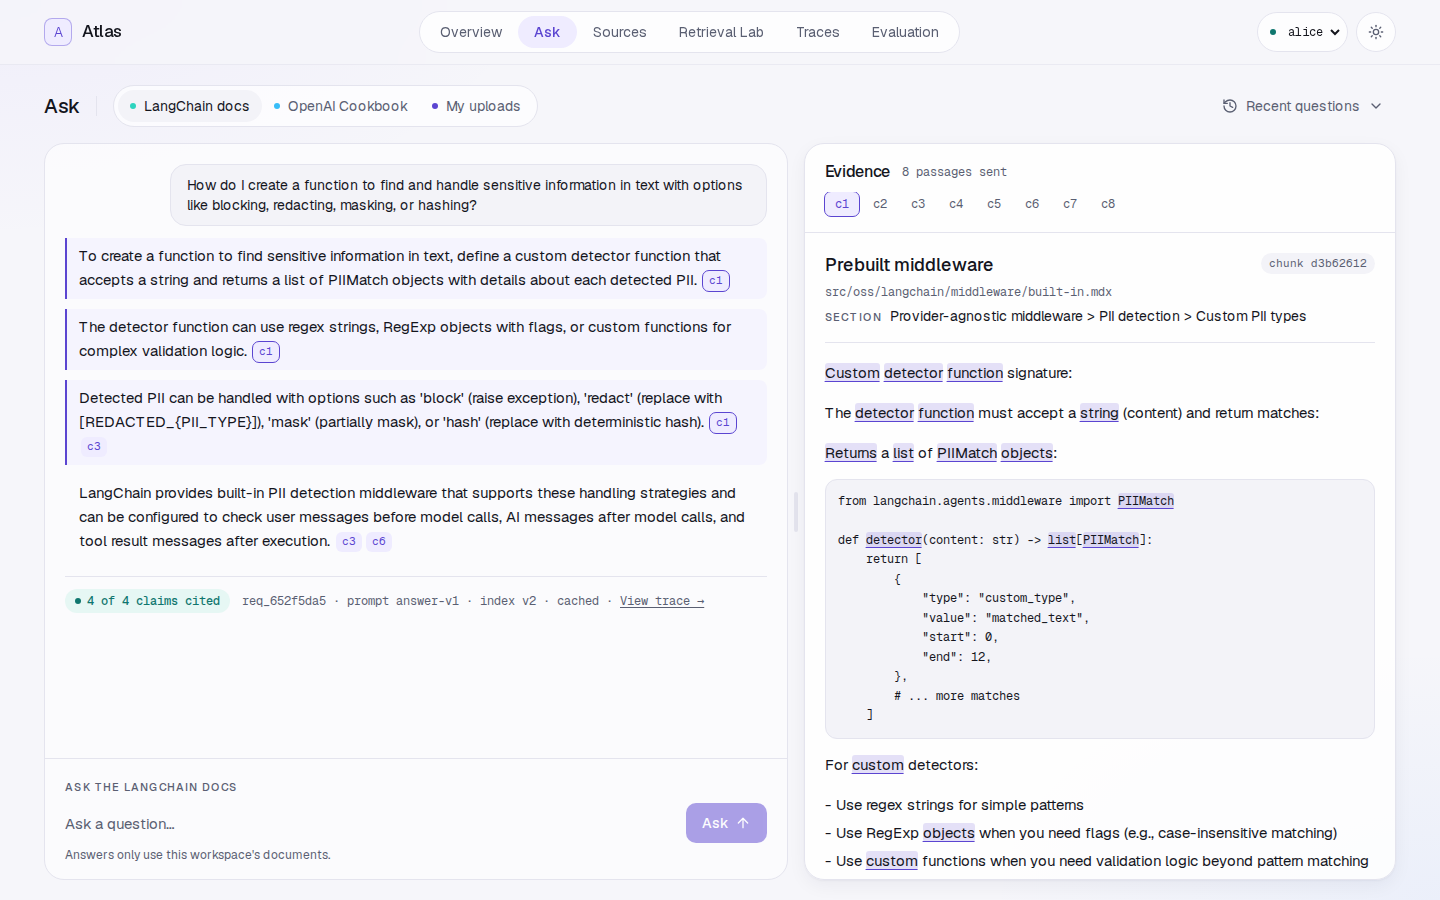
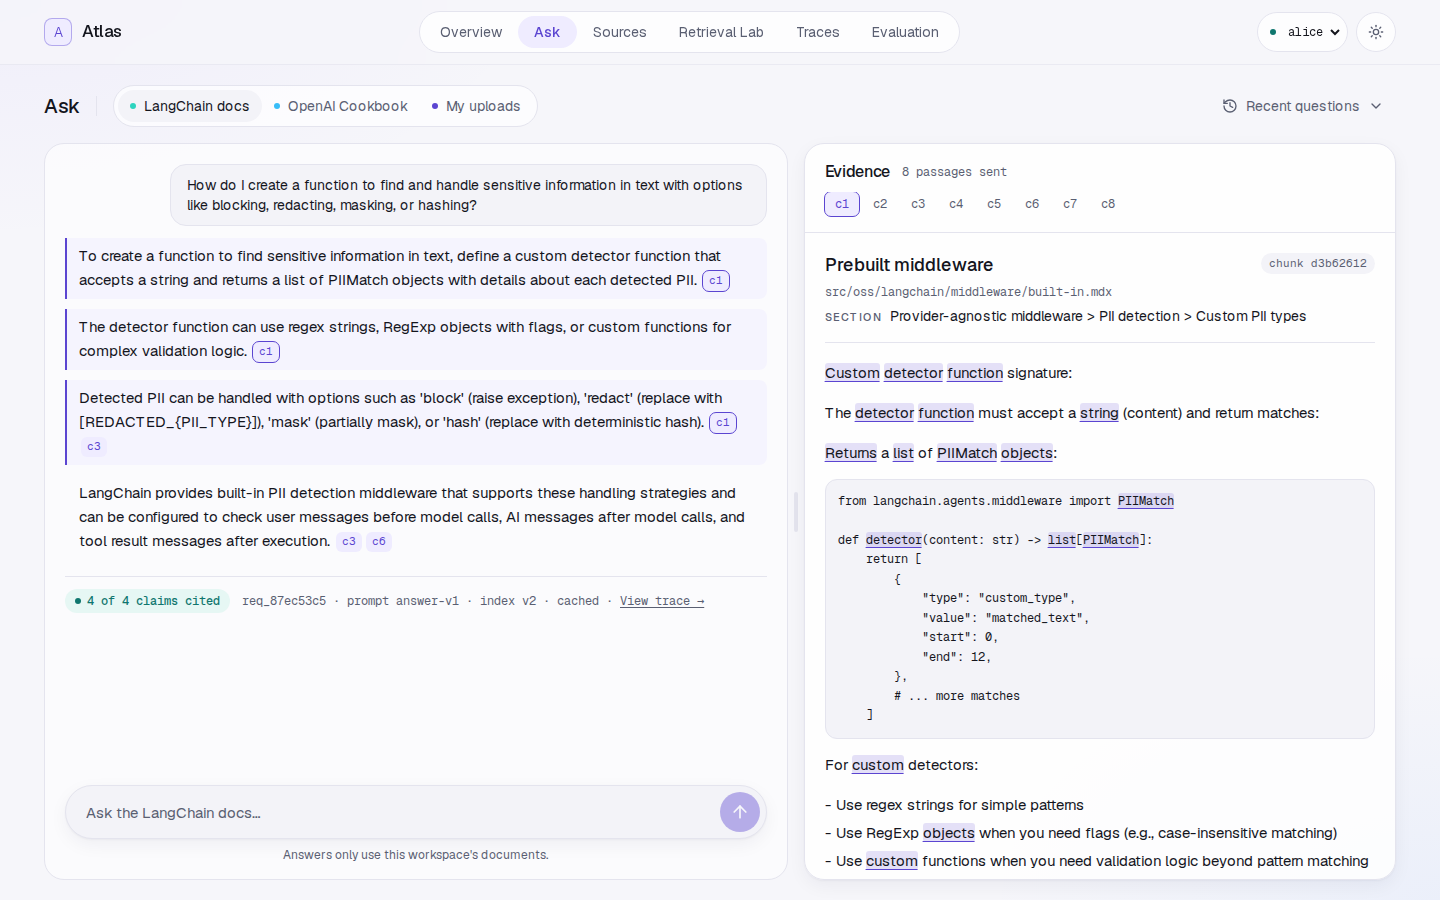
Pin a pill composer under the Ask conversation
- Rounded input with a round send button inside, always visible at the bottom of the pane
- Empty conversation shows a centered prompt instead of a dashed box
- Picking a recent question or switching workspace now also clears the evidence pane
- Refresh the README Ask images

Changed region(s): [[0.0312, 0.8711, 0.375, 0.9644], [0.4688, 0.8711, 0.5312, 0.9333], [0.1875, 0.6533, 0.2188, 0.6844]]

diff --git a/src/components/ask/AskThread.tsx b/src/components/ask/AskThread.tsx
@@ -56,10 +56,11 @@ export function AskThread({
   return (
     <div className="flex min-h-[60vh] flex-col lg:min-h-0 lg:rounded-[20px] lg:border lg:border-line lg:bg-surface/60">
       {/* Desktop: this list scrolls on its own; tabIndex lets keyboard users scroll it. */}
-      <div ref={log} role="log" aria-label="Conversation" tabIndex={0} className="flex-1 space-y-5 focus:outline-none lg:min-h-0 lg:overflow-y-auto lg:overscroll-contain lg:p-5">
+      <div ref={log} role="log" aria-label="Conversation" tabIndex={0} className="flex flex-1 flex-col space-y-5 focus:outline-none lg:min-h-0 lg:overflow-y-auto lg:overscroll-contain lg:p-5">
         {turns.length === 0 && (
-          <div className="rounded-[20px] border border-dashed border-line p-8 text-center text-sm text-muted">
-            Ask about the {workspaceName}. Every sentence in the answer will cite the passage behind it.
+          <div className="m-auto max-w-md py-12 text-center">
+            <p className="font-display text-2xl font-light tracking-tight">What do you want to check?</p>
+            <p className="mt-2 text-sm text-muted">Ask about the {workspaceName}. Every sentence in the answer cites the passage behind it.</p>
           </div>
         )}
         {turns.map((t) => (
@@ -83,29 +84,33 @@ export function AskThread({
           const q = question.trim();
           if (q.length >= 3) void ask(q);
         }}
-        className="sticky bottom-20 mt-6 rounded-2xl border border-line bg-surface/95 p-3 backdrop-blur-xl md:bottom-4 lg:static lg:mt-0 lg:rounded-none lg:rounded-b-[20px] lg:border-0 lg:border-t lg:bg-transparent lg:px-5 lg:py-4 lg:backdrop-blur-none"
+        className="sticky bottom-20 mt-6 bg-canvas/85 py-2 backdrop-blur-xl md:bottom-4 lg:static lg:mt-0 lg:bg-transparent lg:px-5 lg:pb-4 lg:pt-3 lg:backdrop-blur-none"
       >
-        <label htmlFor="question" className="micro">
-          Ask the {workspaceName}
-        </label>
-        <div className="mt-1.5 flex items-center gap-2">
+        {/* One rounded field with the send button inside, pinned under the conversation. */}
+        <div className="flex items-center gap-2 rounded-[28px] border border-line bg-surface-2 py-1.5 pl-5 pr-1.5 shadow-card focus-within:border-brand">
+          <label htmlFor="question" className="sr-only">
+            Ask the {workspaceName}
+          </label>
           <input
             id="question"
             value={question}
             onChange={(e) => setQuestion(e.target.value)}
-            placeholder="Ask a question…"
+            placeholder={`Ask the ${workspaceName}…`}
             maxLength={500}
+            autoComplete="off"
             className="h-10 min-w-0 flex-1 bg-transparent text-ink placeholder:text-muted focus:outline-none"
           />
           <button
             type="submit"
+            aria-label="Ask"
+            title="Ask"
             disabled={question.trim().length < 3}
-            className="inline-flex h-10 items-center gap-1.5 rounded-[10px] bg-primary px-4 text-sm font-medium text-primary-ink active:translate-y-px disabled:opacity-50"
+            className="grid size-10 shrink-0 place-items-center rounded-full bg-primary text-primary-ink transition-opacity active:translate-y-px disabled:opacity-40"
           >
-            Ask <ArrowUp aria-hidden className="size-4" />
+            <ArrowUp aria-hidden className="size-5" />
           </button>
         </div>
-        <p className="mt-1 text-xs text-muted">Answers only use this workspace&apos;s documents.</p>
+        <p className="mt-2 text-center text-xs text-muted">Answers only use this workspace&apos;s documents.</p>
       </form>
     </div>
   );

diff --git a/src/app/ask/page.tsx b/src/app/ask/page.tsx
@@ -37,7 +37,8 @@ export default async function AskPage({ searchParams }: PageProps<"/ask">) {
       {!current ? (
         <Denied user={user} workspace={requested} />
       ) : (
-        <AskView workspaceId={current.id} workspaceName={current.name} draft={draft} />
+        // keyed: a new workspace or a picked recent question starts a fresh thread AND a fresh evidence pane
+        <AskView key={current.id + draft} workspaceId={current.id} workspaceName={current.name} draft={draft} />
       )}
     </div>
   );
